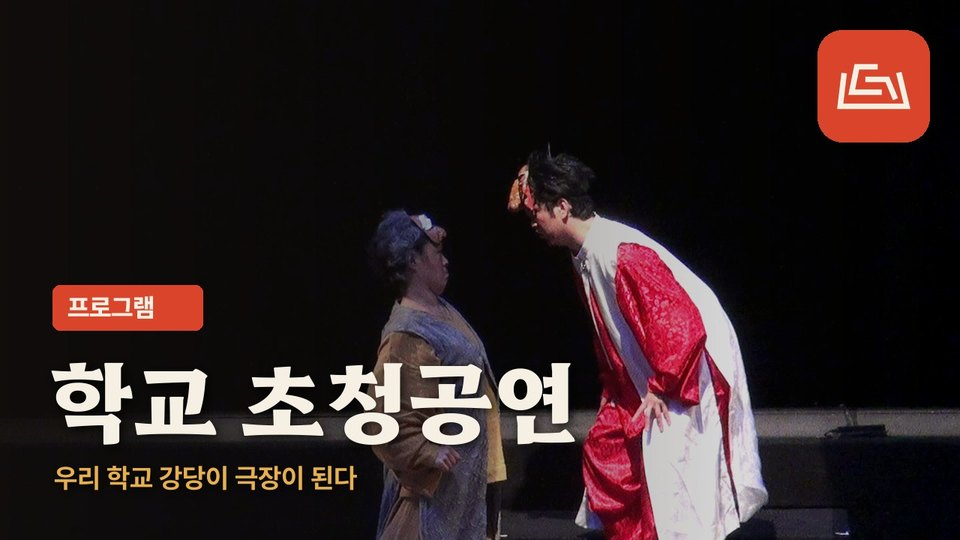
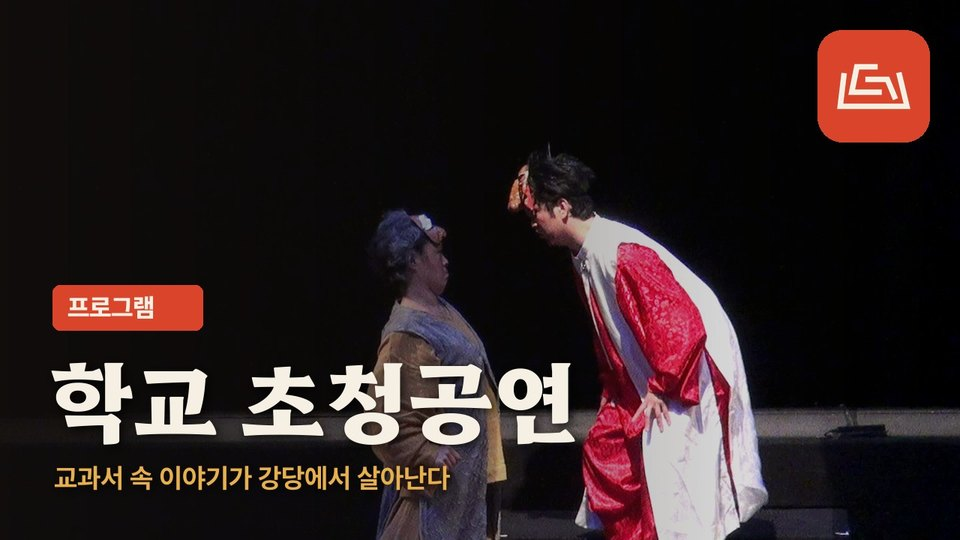
공연 예약 안내를 첫 화면 배너창으로 (QR·짧은 주소 포함, 11월 26일까지), 짧은 주소용 /r/ 이동 페이지

Changed region(s): [[0.0625, 0.8593, 0.4688, 0.9185]]

diff --git a/index.html b/index.html
@@ -4,7 +4,7 @@
 <meta charset="utf-8">
 <meta name="viewport" content="width=device-width, initial-scale=1">
 <title>극단 도깨비 | 부산 극단 · 역사 창작극 · 공연 문의</title>
-<meta name="description" content="역사와 사실을 연극으로 옮겨드립니다. 부산의 극단 도깨비 공식 홈페이지. 역사와 지역 이야기를 담은 창작극, 학교 찾아가는 공연, 축제·기념행사 공연, AI 문화 진로체험과 〈우암동 189번지〉, 〈모자여행〉, 〈상사화〉, 〈꼬까비〉 등 작품을 소개합니다.">
+<meta name="description" content="역사와 사실을 연극으로 옮겨드립니다. 고조선 건국부터 근현대까지, 작은 마을과 우리 동네의 역사까지 무대로 옮기는 부산의 극단 도깨비 공식 홈페이지. 모든 세대를 위한 창작극, 학교 찾아가는 공연, 축제·기념행사 공연, AI 문화 진로체험과 〈우암동 189번지〉, 〈모자여행〉, 〈상사화〉, 〈꼬까비〉 등 작품을 소개합니다.">
 <meta name="keywords" content="극단 도깨비, 극단도깨비, 부산 극단, 부산 연극, 역사극, 역사재현극, 창작극, 마당극, 판소리극, 아동극, 과학연극, 학교 찾아가는 공연, AI 문화 진로체험, 우암동 189번지, 우당탕 과학탐험대, 모자여행, 상사화, 꼬까비, 공연 문의">
 <meta name="robots" content="index, follow">
 <link rel="canonical" href="https://dokkaebi1.github.io/">
@@ -15,7 +15,7 @@
 <meta property="og:site_name" content="극단 도깨비">
 <meta property="og:locale" content="ko_KR">
 <meta property="og:title" content="극단 도깨비 | 부산 극단 · 역사 창작극 · 공연 문의">
-<meta property="og:description" content="역사와 사실을 연극으로 옮겨드립니다. 부산의 극단 도깨비 공식 홈페이지. 역사와 지역 이야기를 담은 창작극, 학교 찾아가는 공연, 축제·기념행사 공연, AI 문화 진로체험과 〈우암동 189번지〉, 〈모자여행〉, 〈상사화〉, 〈꼬까비〉 등 작품을 소개합니다.">
+<meta property="og:description" content="역사와 사실을 연극으로 옮겨드립니다. 고조선 건국부터 근현대까지, 작은 마을과 우리 동네의 역사까지 무대로 옮기는 부산의 극단 도깨비 공식 홈페이지. 모든 세대를 위한 창작극, 학교 찾아가는 공연, 축제·기념행사 공연, AI 문화 진로체험과 〈우암동 189번지〉, 〈모자여행〉, 〈상사화〉, 〈꼬까비〉 등 작품을 소개합니다.">
 <meta property="og:url" content="https://dokkaebi1.github.io/">
 <meta property="og:image" content="https://dokkaebi1.github.io/assets/img/brand/og-image.jpg">
 <meta name="twitter:card" content="summary_large_image">
@@ -28,7 +28,7 @@
 <link rel="stylesheet" href="https://fonts.googleapis.com/css2?family=Hahmlet:wght@400..900&display=swap">
 <link rel="preconnect" href="https://cdn.jsdelivr.net" crossorigin>
 <link rel="stylesheet" href="https://cdn.jsdelivr.net/npm/pretendard@1.3.9/dist/web/variable/pretendardvariable-dynamic-subset.min.css">
-<link rel="stylesheet" href="assets/css/style.css?v=1792687189">
+<link rel="stylesheet" href="assets/css/style.css?v=1792687630">
 <script>document.documentElement.classList.add("js")</script>
 <meta name="dokkaebi-api" content="https://script.google.com/macros/s/AKfycbw1ukn5kiuJ3rC1IUlTakt7768htxE08COYk8GMvpOcfUWcSVZKUTsxLftt-JXtx4I/exec">
 <script type="application/ld+json">{"@context": "https://schema.org", "@type": "TheaterGroup", "name": "극단 도깨비", "alternateName": ["극단도깨비", "Theater Dokkaebi"], "url": "https://dokkaebi1.github.io/", "logo": "https://dokkaebi1.github.io/assets/img/brand/seal-512.png", "image": "https://dokkaebi1.github.io/assets/img/brand/og-image.jpg", "description": "역사와 지역의 이야기를 연극으로 옮기는 부산의 극단. 창작극·판소리극·역사재현극, 학교 찾아가는 공연, 축제·기념행사 공연, AI 문화 진로체험", "address": {"@type": "PostalAddress", "addressRegion": "부산광역시", "addressCountry": "KR"}, "telephone": "+82-10-8584-1753"}</script>
@@ -52,10 +52,9 @@
   </div>
   <div class="wrap hero__inner">
     <svg class="hero__mark" viewBox="0 0 700 430" aria-hidden="true" focusable="false"><g fill="none" stroke-width="40" stroke-linejoin="miter" stroke-linecap="butt"><polyline pathLength="1" points="95,95 60,385 640,385 570,90" stroke="currentColor"/><polyline pathLength="1" points="385,40 205,40 160,262 420,262" stroke="currentColor"/><polyline pathLength="1" points="280,150 470,150 540,322" stroke="var(--red)"/></g></svg>
-    <a class="hero__notice" href="reserve/" data-until="2026-11-26"><span class="hero__notice-tag">공연 예약</span><span class="hero__notice-text">11월 24~26일 오전 10:30 · 〈배탈난 호랑이〉 · 안데르센극장</span><b>좌석 예약하기 →</b></a><script>(function(a){var t=new Date(Date.now()+324e5).toISOString().slice(0,10);if(a&&t>a.dataset.until)a.hidden=true})(document.currentScript.previousElementSibling)</script>
     <span class="eyebrow">부산 · 역사극 · 창작극 · 찾아가는 공연</span>
     <h1>극단 도깨비</h1>
-    <p class="hero__lead"><strong>역사와 사실을 연극으로 옮겨드립니다.</strong><br>지역의 역사와 마을의 기억, 사람 사는 이야기를 무대에 올려 극장·학교·축제 어디든 찾아갑니다.</p>
+    <p class="hero__lead"><strong>역사와 사실을 연극으로 옮겨드립니다.</strong><br>고조선 건국부터 근현대까지, 작은 마을의 역사와 지금 내가 사는 동네 이야기까지 무대로 옮깁니다. 어린이부터 어르신까지, 모든 세대와 함께합니다.</p>
     <div class="hero__actions">
       <a class="btn btn--red" href="#services">프로그램 보기</a>
       <a class="btn btn--line" href="#contact">공연 문의</a>
@@ -71,7 +70,7 @@
     <div class="about">
       <p class="about__quote reveal">역사 속 한 장면, 골목의 기억, 이웃의 웃음.<br>실제 있었던 <em>사람 사는 이야기</em>를<br>무대 위로 불러냅니다.</p>
       <div class="about__body reveal">
-        <p>극단 도깨비는 부산을 기반으로 활동하는 극단입니다. 피란민 마을 소막마을의 기억을 담은 〈우암동 189번지〉처럼, 지역의 역사와 마을 이야기를 바탕으로 창작극을 만들어 왔습니다.</p>
+        <p>극단 도깨비는 부산을 기반으로 어린이부터 어르신까지 모든 세대와 만나는 극단입니다. 고조선 건국부터 근현대까지의 역사, 피란민 마을 소막마을의 기억을 담은 〈우암동 189번지〉처럼 작은 마을과 동네의 이야기까지 무대로 옮겨 왔습니다.</p>
         <p>판소리와 낭독극으로 고전과 문학을 새롭게 풀고, 동래읍성역사축제·3·1절 재현 행사·갯마을 마당극 축제 같은 축제와 기념행사의 공연, 그리고 여러 길거리 퍼레이드를 기획하고 연출해 왔습니다. 극장이든 학교든 시장이든, 이야기가 필요한 곳이라면 장소를 가리지 않고 찾아갑니다.</p>
       </div>
       <div class="pillars">
@@ -90,7 +89,7 @@
     <div class="section-head reveal"><span class="eyebrow">02 · 프로그램</span><h2>이런 무대를 만듭니다</h2><p>필요한 공연과 대상에 맞춰 고르세요. 누르면 자세한 안내로 이어집니다.</p></div>
     <div class="offers"><a class="offer reveal" href="programs/history.html">
   <div class="offer__img"><img src="assets/img/gallery/outdoor-01.jpg" alt="성곽 위 야외 역사재현극 장면" loading="lazy"></div>
-  <span class="eyebrow">창작 의뢰</span><h3>역사 · 이야기 창작 공연</h3><p>지역의 역사와 인물, 마을의 기억을 바탕으로 기념행사와 축제에 맞는 공연을 만듭니다.</p><span class="offer__more">자세히 보기 →</span>
+  <span class="eyebrow">창작 의뢰</span><h3>역사 · 이야기 창작 공연</h3><p>고조선 건국부터 근현대까지, 지역의 인물과 작은 마을, 우리 동네의 역사까지 행사와 축제에 맞는 공연으로 만듭니다.</p><span class="offer__more">자세히 보기 →</span>
 </a><a class="offer reveal offer--edu" href="programs/school.html">
   <div class="offer__img"><img src="assets/img/gallery/community-03.jpg" alt="어린이 발표 공연 단체 사진" loading="lazy"></div>
   <span class="eyebrow">학교 초청</span><h3>학교 찾아가는 공연</h3><p>한글·수학·과학 이야기를 담은 공연으로 교실과 강당을 찾아갑니다.</p><span class="offer__more">자세히 보기 →</span>
@@ -202,7 +201,7 @@
     <h3 class="videos-title reveal">프로그램 홍보영상</h3>
     <div class="videos"><button class="vcard reveal" data-video="assets/video/school.mp4" data-poster="assets/video/school.jpg" data-title="학교 초청공연">
   <div class="vcard__img"><img src="assets/video/school.jpg" alt="학교 초청공연 영상 장면" loading="lazy" width="1280" height="720"><span class="play"><svg viewBox="0 0 24 24" aria-hidden="true"><path d="M7 4.5v15l13-7.5z"/></svg></span></div>
-  <b>학교 초청공연</b><span>교실 · 강당 · 체육관으로 찾아가는 공연</span></button><button class="vcard reveal" data-video="assets/video/ai-career.mp4" data-poster="assets/video/ai-career.jpg" data-title="AI 문화 진로체험">
+  <b>학교 초청공연</b><span>교과서 속 이야기를 교실 · 강당으로</span></button><button class="vcard reveal" data-video="assets/video/ai-career.mp4" data-poster="assets/video/ai-career.jpg" data-title="AI 문화 진로체험">
   <div class="vcard__img"><img src="assets/video/ai-career.jpg" alt="AI 문화 진로체험 영상 장면" loading="lazy" width="1280" height="720"><span class="play"><svg viewBox="0 0 24 24" aria-hidden="true"><path d="M7 4.5v15l13-7.5z"/></svg></span></div>
   <b>AI 문화 진로체험</b><span>AI와 함께 대본을 쓰고 무대에 올리기</span></button><button class="vcard reveal" data-video="assets/video/venue.mp4" data-poster="assets/video/venue.jpg" data-title="문화회관 · 공연장 초청공연">
   <div class="vcard__img"><img src="assets/video/venue.jpg" alt="문화회관 · 공연장 초청공연 영상 장면" loading="lazy" width="1280" height="720"><span class="play"><svg viewBox="0 0 24 24" aria-hidden="true"><path d="M7 4.5v15l13-7.5z"/></svg></span></div>
@@ -261,6 +260,33 @@
   </div>
 </section>
 </main>
+<div class="promo" id="promo" data-until="2026-11-26" hidden>
+  <div class="promo__card" role="dialog" aria-modal="true" aria-labelledby="promo-title" tabindex="-1">
+    <button class="promo__x" type="button" data-promo-close aria-label="배너 닫기">×</button>
+    <span class="promo__tag">공연 예약</span>
+    <p class="promo__series">기장군 아동무대공연</p>
+    <h2 id="promo-title">배탈난 호랑이</h2>
+    <dl class="promo__facts"><div><dt>날짜</dt><dd>11월 24일(화) · 25일(수) · 26일(목)</dd></div><div><dt>시간</dt><dd>오전 10시 30분</dd></div><div><dt>장소</dt><dd>안데르센극장 (기장군 장안읍 장안로 211)</dd></div></dl>
+    <div class="promo__go">
+      <img class="promo__qr" src="assets/img/reserve-qr.svg" alt="좌석 예약 페이지 QR 코드" width="132" height="132">
+      <div><a class="btn btn--red" href="reserve/">좌석 예약하기 →</a><p class="promo__hint">컴퓨터로 보고 계시면 휴대폰 카메라로 QR 코드를 찍어도 됩니다.</p><p class="promo__short">짧은 주소 <b>is.gd/dokkaebi</b></p></div>
+    </div>
+    <div class="promo__foot"><button type="button" data-promo-today>오늘 하루 보지 않기</button><button type="button" data-promo-close>닫기</button></div>
+  </div>
+</div>
+<script>(function () {
+  var p = document.getElementById("promo"); if (!p) return;
+  var today = new Date(Date.now() + 324e5).toISOString().slice(0, 10), KEY = "dk-promo-hide", last = null;
+  try { if (localStorage.getItem(KEY) === today) return; } catch (e) {}
+  if (today > p.dataset.until) return;
+  function close(day) { p.hidden = true; document.removeEventListener("keydown", esc); if (day) try { localStorage.setItem(KEY, today); } catch (e) {} if (last) last.focus(); }
+  function esc(e) { if (e.key === "Escape") close(); }
+  setTimeout(function () { last = document.activeElement; p.hidden = false; p.querySelector(".promo__card").focus(); document.addEventListener("keydown", esc); }, 600);
+  p.addEventListener("click", function (e) {
+    if (e.target === p || e.target.closest("[data-promo-close]")) close();
+    else if (e.target.closest("[data-promo-today]")) close(true);
+  });
+})();</script>
 <footer class="site-footer">
   <div class="wrap">
     <div class="footer-brand"><a class="brand" href="index.html" aria-label="극단 도깨비 홈"><svg class="brand__mark" viewBox="0 0 700 430" aria-hidden="true" focusable="false"><g fill="none" stroke-width="46" stroke-linejoin="miter" stroke-linecap="butt"><polyline points="95,95 60,385 640,385 570,90" stroke="currentColor"/><polyline points="385,40 205,40 160,262 420,262" stroke="currentColor"/><polyline points="280,150 470,150 540,322" stroke="var(--red)"/></g></svg><span class="brand__name"><small>극단</small>도깨비</span></a><p class="footer-brand__slogan">역사와 사실을 연극으로 옮겨드립니다</p></div>
@@ -285,7 +311,7 @@
 <a class="fab" href="#inquiry" data-open="inquiry-dialog">문의하기</a>
 <dialog id="video-dialog" aria-label="영상 보기"><button class="dlg-close" aria-label="닫기">×</button><video controls playsinline preload="none"></video><p></p></dialog>
 <dialog id="lightbox" aria-label="사진 크게 보기"><button class="dlg-close" aria-label="닫기">×</button><button class="lb-nav lb-prev" aria-label="이전 사진">‹</button><figure><img alt=""><figcaption></figcaption></figure><button class="lb-nav lb-next" aria-label="다음 사진">›</button></dialog>
-<script src="assets/js/main.js?v=1792687189" defer></script>
-<script src="assets/js/forms.js?v=1792687189" defer></script>
+<script src="assets/js/main.js?v=1792687630" defer></script>
+<script src="assets/js/forms.js?v=1792687630" defer></script>
 </body>
 </html>

diff --git a/programs/history.html b/programs/history.html
@@ -4,7 +4,7 @@
 <meta charset="utf-8">
 <meta name="viewport" content="width=device-width, initial-scale=1">
 <title>역사 · 이야기 창작 공연 | 극단 도깨비</title>
-<meta name="description" content="극단 도깨비 역사 · 이야기 창작 공연. 지역의 역사, 인물, 마을의 기억을 무대 위 이야기로 옮겨드립니다. 지역의 역사와 인물, 마을의 기억을 바탕으로 기념행사와 축제에 맞는 공연을 만듭니다.">
+<meta name="description" content="극단 도깨비 역사 · 이야기 창작 공연. 고조선부터 우리 동네까지 — 모든 역사를 무대 위 이야기로 옮겨드립니다. 고조선 건국부터 근현대까지, 지역의 인물과 작은 마을, 우리 동네의 역사까지 행사와 축제에 맞는 공연으로 만듭니다.">
 <meta name="keywords" content="극단 도깨비, 극단도깨비, 부산 극단, 부산 연극, 역사극, 역사재현극, 창작극, 마당극, 판소리극, 아동극, 과학연극, 학교 찾아가는 공연, AI 문화 진로체험, 우암동 189번지, 우당탕 과학탐험대, 모자여행, 상사화, 꼬까비, 공연 문의">
 <meta name="robots" content="index, follow">
 <link rel="canonical" href="https://dokkaebi1.github.io/programs/history.html">
@@ -15,7 +15,7 @@
 <meta property="og:site_name" content="극단 도깨비">
 <meta property="og:locale" content="ko_KR">
 <meta property="og:title" content="역사 · 이야기 창작 공연 | 극단 도깨비">
-<meta property="og:description" content="극단 도깨비 역사 · 이야기 창작 공연. 지역의 역사, 인물, 마을의 기억을 무대 위 이야기로 옮겨드립니다. 지역의 역사와 인물, 마을의 기억을 바탕으로 기념행사와 축제에 맞는 공연을 만듭니다.">
+<meta property="og:description" content="극단 도깨비 역사 · 이야기 창작 공연. 고조선부터 우리 동네까지 — 모든 역사를 무대 위 이야기로 옮겨드립니다. 고조선 건국부터 근현대까지, 지역의 인물과 작은 마을, 우리 동네의 역사까지 행사와 축제에 맞는 공연으로 만듭니다.">
 <meta property="og:url" content="https://dokkaebi1.github.io/programs/history.html">
 <meta property="og:image" content="https://dokkaebi1.github.io/assets/img/gallery/outdoor-02.jpg">
 <meta name="twitter:card" content="summary_large_image">
@@ -28,7 +28,7 @@
 <link rel="stylesheet" href="https://fonts.googleapis.com/css2?family=Hahmlet:wght@400..900&display=swap">
 <link rel="preconnect" href="https://cdn.jsdelivr.net" crossorigin>
 <link rel="stylesheet" href="https://cdn.jsdelivr.net/npm/pretendard@1.3.9/dist/web/variable/pretendardvariable-dynamic-subset.min.css">
-<link rel="stylesheet" href="../assets/css/style.css?v=1792687189">
+<link rel="stylesheet" href="../assets/css/style.css?v=1792687630">
 <script>document.documentElement.classList.add("js")</script>
 <meta name="dokkaebi-api" content="https://script.google.com/macros/s/AKfycbw1ukn5kiuJ3rC1IUlTakt7768htxE08COYk8GMvpOcfUWcSVZKUTsxLftt-JXtx4I/exec">
 <script type="application/ld+json">{"@context": "https://schema.org", "@type": "BreadcrumbList", "itemListElement": [{"@type": "ListItem", "position": 1, "name": "홈", "item": "https://dokkaebi1.github.io/"}, {"@type": "ListItem", "position": 2, "name": "프로그램", "item": "https://dokkaebi1.github.io/#services"}, {"@type": "ListItem", "position": 3, "name": "역사 · 이야기 창작 공연", "item": "https://dokkaebi1.github.io/programs/history.html"}]}</script>
@@ -51,13 +51,13 @@
       <div class="crumbs"><a href="../index.html">홈</a> › <a href="../index.html#services">프로그램</a> › 역사 · 이야기 창작 공연</div>
       <span class="eyebrow">창작 의뢰</span>
       <h1>역사와 사실을 연극으로</h1>
-      <p class="show-hero__tagline">지역의 역사, 인물, 마을의 기억을 무대 위 이야기로 옮겨드립니다.</p>
+      <p class="show-hero__tagline">고조선부터 우리 동네까지 — 모든 역사를 무대 위 이야기로 옮겨드립니다.</p>
     </div>
   </div>
 </section>
 <section class="section grain"><div class="wrap">
   <div class="section-head reveal"><span class="eyebrow">이런 이야기를 연극으로</span><h2>역사와 삶을 무대로</h2><p>극단 도깨비가 만들어 온 이야기의 결입니다.</p></div>
-  <div class="info-grid"><div class="info reveal"><h3>지역의 역사와 인물</h3><p>동래읍성역사축제, 3·1절 만세운동 재현 행사처럼 기념일과 축제에 맞춰 그 땅의 역사를 무대 위에 되살리는 공연을 기획하고 연출합니다.</p></div><div class="info reveal"><h3>마을과 골목의 기억</h3><p>〈우암동 189번지〉는 피란민이 터를 잡은 소막마을의 이야기를 창작극으로 옮긴 작품입니다.</p></div><div class="info reveal"><h3>문학과 고전</h3><p>〈오영수의 변신〉은 소설가 오영수의 단편을 판소리·낭독극·단막극으로 풀어낸 무대입니다.</p></div><div class="info reveal"><h3>교과서 속 이야기</h3><p>〈우당탕 과학탐험대〉, 신나는 한글여행 같은 교과 이야기 공연과 AI 문화 진로체험으로 학교에서도 이야기를 나눕니다.</p></div></div>
+  <div class="info-grid"><div class="info reveal"><h3>시대를 가리지 않는 역사</h3><p>고조선 건국부터 삼국·고려·조선을 지나 근현대까지 — 담고 싶은 시대와 사건을 알려 주시면 관객과 장소에 맞는 공연으로 만듭니다.</p></div><div class="info reveal"><h3>지역의 역사와 인물</h3><p>동래읍성역사축제, 3·1절 만세운동 재현 행사처럼 기념일과 축제에 맞춰 그 땅의 역사를 무대 위에 되살리는 공연을 기획하고 연출합니다.</p></div><div class="info reveal"><h3>마을과 골목, 우리 동네의 기억</h3><p>〈우암동 189번지〉는 피란민이 터를 잡은 소막마을의 이야기를 창작극으로 옮긴 작품입니다. 지금 내가 사는 동네의 이야기도 무대가 됩니다.</p></div><div class="info reveal"><h3>문학과 고전</h3><p>〈오영수의 변신〉은 소설가 오영수의 단편을 판소리·낭독극·단막극으로 풀어낸 무대입니다.</p></div><div class="info reveal"><h3>교과서 속 이야기</h3><p>〈우당탕 과학탐험대〉, 신나는 한글여행 같은 교과 이야기 공연과 AI 문화 진로체험으로 학교에서도 이야기를 나눕니다.</p></div></div>
 </div></section><section class="section section--paper-2"><div class="wrap">
   <div class="section-head reveal"><span class="eyebrow">공연 형식</span><h2>장소에 맞춰 만듭니다</h2></div>
   <ul class="chips reveal" style="margin:0"><li>극장 공연</li><li>야외 역사재현극</li><li>마당극 · 거리 공연</li><li>길거리 퍼레이드</li><li>기념식 · 행사 공연</li><li>학교 공연</li></ul><div class="photo-row reveal"><img src="../assets/img/gallery/outdoor-02.jpg" alt="연기 속 역사재현극 전투 장면" loading="lazy"><img src="../assets/img/gallery/uam-02.jpg" alt="우암동 189번지 – 소막마을 사람들의 군무" loading="lazy"><img src="../assets/img/gallery/outdoor-04.jpg" alt="갑옷 입은 병사들" loading="lazy"></div>
@@ -106,7 +106,7 @@
 <a class="fab" href="#inquiry" data-open="inquiry-dialog">문의하기</a>
 <dialog id="video-dialog" aria-label="영상 보기"><button class="dlg-close" aria-label="닫기">×</button><video controls playsinline preload="none"></video><p></p></dialog>
 <dialog id="lightbox" aria-label="사진 크게 보기"><button class="dlg-close" aria-label="닫기">×</button><button class="lb-nav lb-prev" aria-label="이전 사진">‹</button><figure><img alt=""><figcaption></figcaption></figure><button class="lb-nav lb-next" aria-label="다음 사진">›</button></dialog>
-<script src="../assets/js/main.js?v=1792687189" defer></script>
-<script src="../assets/js/forms.js?v=1792687189" defer></script>
+<script src="../assets/js/main.js?v=1792687630" defer></script>
+<script src="../assets/js/forms.js?v=1792687630" defer></script>
 </body>
 </html>

diff --git a/assets/css/style.css b/assets/css/style.css
@@ -478,12 +478,30 @@ dialog.form-dialog .dlg-close { position: sticky; float: right; top: 8px; margin
 .hero__lead, .show-hero__tagline { font-weight: 500; }
 .footer-brand__slogan { font-weight: 600; }
 
-/* 공연 좌석 예약 안내 (첫 화면 · 메뉴) — site_config.json 의 reserve_notice */
-.hero__notice { display: flex; width: fit-content; flex-wrap: wrap; align-items: center; gap: 8px 14px; max-width: 100%; margin: 0 0 22px; padding: 10px 12px 10px 10px; border-radius: 16px; background: rgba(21, 17, 15, .72); border: 1px solid rgba(232, 176, 74, .55); color: var(--on-ink); text-decoration: none; backdrop-filter: blur(6px); -webkit-backdrop-filter: blur(6px); transition: border-color .2s, transform .2s var(--ease); }
-.hero__notice:hover { border-color: var(--gold); transform: translateY(-2px); }
-.hero__notice[hidden] { display: none; }
-.hero__notice-tag { background: var(--gold); color: var(--ink); font-weight: 800; font-size: 13px; letter-spacing: .06em; padding: 4px 10px; border-radius: 8px; }
-.hero__notice-text { font-weight: 700; font-size: 15.5px; }
-.hero__notice b { color: var(--gold); font-size: 15.5px; white-space: nowrap; }
+/* 공연 좌석 예약 배너창 (첫 화면) · 메뉴 '좌석 예약' — site_config.json 의 reserve_notice. 공연이 끝나면 함께 빠집니다 */
+.promo { position: fixed; inset: 0; z-index: 200; display: grid; place-items: center; padding: 16px; background: rgba(21, 17, 15, .62); animation: promo-in .3s var(--ease); }
+.promo[hidden] { display: none; }
+.promo__card { position: relative; width: min(460px, 100%); max-height: calc(100dvh - 32px); overflow: auto; background: var(--ink); color: var(--on-ink); border: 1px solid rgba(232, 176, 74, .45); border-top: 5px solid var(--red); border-radius: 18px; padding: 28px 26px 0; box-shadow: 0 30px 80px -20px rgba(0, 0, 0, .7); outline: none; }
+.promo__x { position: absolute; top: 10px; right: 12px; width: 40px; height: 40px; border: 0; background: none; color: var(--on-ink); font-size: 28px; line-height: 1; cursor: pointer; }
+.promo__tag { display: inline-block; background: var(--gold); color: var(--ink); font-weight: 800; font-size: 13px; letter-spacing: .08em; padding: 4px 11px; border-radius: 8px; }
+.promo__series { margin: 14px 0 2px; color: var(--gold); font-weight: 700; font-size: 15px; }
+.promo h2 { margin: 0 0 14px; font-family: var(--display); font-weight: 900; font-size: clamp(34px, 8vw, 44px); line-height: 1.1; letter-spacing: -.02em; color: #fff; }
+.promo__facts { margin: 0; display: grid; gap: 6px; font-size: 15.5px; }
+.promo__facts div { display: grid; grid-template-columns: 3em 1fr; gap: 10px; }
+.promo__facts dt { color: var(--on-ink-soft); font-weight: 700; }
+.promo__facts dd { margin: 0; font-weight: 700; }
+.promo__go { display: grid; grid-template-columns: auto 1fr; gap: 16px; align-items: center; margin: 20px 0 18px; padding-top: 18px; border-top: 1px solid rgba(255, 255, 255, .12); }
+.promo__qr { width: 132px; height: 132px; background: #fff; border-radius: 10px; padding: 6px; }
+.promo__go .btn { width: 100%; justify-content: center; }
+.promo__hint { margin: 8px 0 0; font-size: 13px; line-height: 1.5; color: var(--on-ink-soft); }
+.promo__short { margin: 6px 0 0; font-size: 13.5px; color: var(--on-ink-soft); }
+.promo__short b { color: var(--gold); font-size: 15px; letter-spacing: .02em; }
+.promo__foot { display: flex; justify-content: space-between; margin: 0 -26px; border-top: 1px solid rgba(255, 255, 255, .12); }
+.promo__foot button { flex: 1; border: 0; background: none; color: var(--on-ink-soft); font: inherit; font-size: 14.5px; padding: 14px; cursor: pointer; }
+.promo__foot button + button { border-left: 1px solid rgba(255, 255, 255, .12); color: var(--on-ink); font-weight: 700; }
+.promo__foot button:hover { background: rgba(255, 255, 255, .06); }
+@keyframes promo-in { from { opacity: 0; } to { opacity: 1; } }
+@media (hover: none) and (pointer: coarse) { .promo__qr, .promo__hint { display: none; } .promo__go { grid-template-columns: 1fr; } }
+@media (prefers-reduced-motion: reduce) { .promo { animation: none; } }
 .nav a.nav__reserve { opacity: 1; color: var(--gold); border-color: var(--gold); }
 @media (max-width: 820px) { .nav a.nav__reserve { border-color: rgba(255, 255, 255, .08); } }

diff --git a/reserve/index.html b/reserve/index.html
@@ -23,7 +23,7 @@
 <link rel="stylesheet" href="https://fonts.googleapis.com/css2?family=Hahmlet:wght@600..900&display=swap">
 <link rel="preconnect" href="https://cdn.jsdelivr.net" crossorigin>
 <link rel="stylesheet" href="https://cdn.jsdelivr.net/npm/pretendard@1.3.9/dist/web/variable/pretendardvariable-dynamic-subset.min.css">
-<link rel="stylesheet" href="../assets/css/reserve.css?v=1792686306">
+<link rel="stylesheet" href="../assets/css/reserve.css?v=1792687523">
 <meta name="dokkaebi-api" content="https://script.google.com/macros/s/AKfycbw1ukn5kiuJ3rC1IUlTakt7768htxE08COYk8GMvpOcfUWcSVZKUTsxLftt-JXtx4I/exec">
 <script type="application/ld+json">{"@context":"https://schema.org","@type":"TheaterEvent","name":"배탈난 호랑이 (기장군 아동무대공연)","description":"자랑쟁이 호랑이가 거짓말하고 쓰레기를 함부로 버리는 버릇을 고치는 이야기","organizer":{"@type":"PerformingGroup","name":"극단 도깨비","telephone":"010-8584-1753","url":"https://dokkaebi1.github.io/"},"location":{"@type":"PerformingArtsTheater","name":"안데르센극장","address":{"@type":"PostalAddress","streetAddress":"장안읍 장안로 211","addressLocality":"기장군","addressRegion":"부산광역시","addressCountry":"KR"}},"startDate":"2026-11-24T10:30:00+09:00","endDate":"2026-11-26T11:30:00+09:00","eventAttendanceMode":"https://schema.org/OfflineEventAttendanceMode","eventStatus":"https://schema.org/EventScheduled","url":"https://dokkaebi1.github.io/reserve/"}</script>
 </head>
@@ -142,8 +142,8 @@
   <b>극단 도깨비</b> · 부산광역시 · 공연 문의 <a href="tel:01085841753">010-8584-1753</a><br>
   <a href="../privacy.html">개인정보 처리방침</a> · <a href="../index.html">홈페이지</a> · © 2026 극단 도깨비
 </div></footer>
-<script src="../assets/js/reserve-core.js?v=1792686306"></script>
-<script src="../assets/js/reserve-ui.js?v=1792686306"></script>
-<script src="../assets/js/reserve.js?v=1792686306"></script>
+<script src="../assets/js/reserve-core.js?v=1792687523"></script>
+<script src="../assets/js/reserve-ui.js?v=1792687523"></script>
+<script src="../assets/js/reserve.js?v=1792687523"></script>
 </body>
 </html>

diff --git a/programs/school.html b/programs/school.html
@@ -28,7 +28,7 @@
 <link rel="stylesheet" href="https://fonts.googleapis.com/css2?family=Hahmlet:wght@400..900&display=swap">
 <link rel="preconnect" href="https://cdn.jsdelivr.net" crossorigin>
 <link rel="stylesheet" href="https://cdn.jsdelivr.net/npm/pretendard@1.3.9/dist/web/variable/pretendardvariable-dynamic-subset.min.css">
-<link rel="stylesheet" href="../assets/css/style.css?v=1792687189">
+<link rel="stylesheet" href="../assets/css/style.css?v=1792687630">
 <script>document.documentElement.classList.add("js")</script>
 <meta name="dokkaebi-api" content="https://script.google.com/macros/s/AKfycbw1ukn5kiuJ3rC1IUlTakt7768htxE08COYk8GMvpOcfUWcSVZKUTsxLftt-JXtx4I/exec">
 <script type="application/ld+json">{"@context": "https://schema.org", "@type": "BreadcrumbList", "itemListElement": [{"@type": "ListItem", "position": 1, "name": "홈", "item": "https://dokkaebi1.github.io/"}, {"@type": "ListItem", "position": 2, "name": "프로그램", "item": "https://dokkaebi1.github.io/#services"}, {"@type": "ListItem", "position": 3, "name": "학교 찾아가는 공연", "item": "https://dokkaebi1.github.io/programs/school.html"}]}</script>
@@ -126,7 +126,7 @@
 <a class="fab" href="#inquiry" data-open="inquiry-dialog">문의하기</a>
 <dialog id="video-dialog" aria-label="영상 보기"><button class="dlg-close" aria-label="닫기">×</button><video controls playsinline preload="none"></video><p></p></dialog>
 <dialog id="lightbox" aria-label="사진 크게 보기"><button class="dlg-close" aria-label="닫기">×</button><button class="lb-nav lb-prev" aria-label="이전 사진">‹</button><figure><img alt=""><figcaption></figcaption></figure><button class="lb-nav lb-next" aria-label="다음 사진">›</button></dialog>
-<script src="../assets/js/main.js?v=1792687189" defer></script>
-<script src="../assets/js/forms.js?v=1792687189" defer></script>
+<script src="../assets/js/main.js?v=1792687630" defer></script>
+<script src="../assets/js/forms.js?v=1792687630" defer></script>
 </body>
 </html>

diff --git a/programs/ai-career.html b/programs/ai-career.html
@@ -28,7 +28,7 @@
 <link rel="stylesheet" href="https://fonts.googleapis.com/css2?family=Hahmlet:wght@400..900&display=swap">
 <link rel="preconnect" href="https://cdn.jsdelivr.net" crossorigin>
 <link rel="stylesheet" href="https://cdn.jsdelivr.net/npm/pretendard@1.3.9/dist/web/variable/pretendardvariable-dynamic-subset.min.css">
-<link rel="stylesheet" href="../assets/css/style.css?v=1792687189">
+<link rel="stylesheet" href="../assets/css/style.css?v=1792687630">
 <script>document.documentElement.classList.add("js")</script>
 <meta name="dokkaebi-api" content="https://script.google.com/macros/s/AKfycbw1ukn5kiuJ3rC1IUlTakt7768htxE08COYk8GMvpOcfUWcSVZKUTsxLftt-JXtx4I/exec">
 <script type="application/ld+json">{"@context": "https://schema.org", "@type": "BreadcrumbList", "itemListElement": [{"@type": "ListItem", "position": 1, "name": "홈", "item": "https://dokkaebi1.github.io/"}, {"@type": "ListItem", "position": 2, "name": "프로그램", "item": "https://dokkaebi1.github.io/#services"}, {"@type": "ListItem", "position": 3, "name": "AI 문화 진로체험", "item": "https://dokkaebi1.github.io/programs/ai-career.html"}]}</script>
@@ -103,7 +103,7 @@
 <a class="fab" href="#inquiry" data-open="inquiry-dialog">문의하기</a>
 <dialog id="video-dialog" aria-label="영상 보기"><button class="dlg-close" aria-label="닫기">×</button><video controls playsinline preload="none"></video><p></p></dialog>
 <dialog id="lightbox" aria-label="사진 크게 보기"><button class="dlg-close" aria-label="닫기">×</button><button class="lb-nav lb-prev" aria-label="이전 사진">‹</button><figure><img alt=""><figcaption></figcaption></figure><button class="lb-nav lb-next" aria-label="다음 사진">›</button></dialog>
-<script src="../assets/js/main.js?v=1792687189" defer></script>
-<script src="../assets/js/forms.js?v=1792687189" defer></script>
+<script src="../assets/js/main.js?v=1792687630" defer></script>
+<script src="../assets/js/forms.js?v=1792687630" defer></script>
 </body>
 </html>

diff --git a/works/science-expedition.html b/works/science-expedition.html
@@ -28,7 +28,7 @@
 <link rel="stylesheet" href="https://fonts.googleapis.com/css2?family=Hahmlet:wght@400..900&display=swap">
 <link rel="preconnect" href="https://cdn.jsdelivr.net" crossorigin>
 <link rel="stylesheet" href="https://cdn.jsdelivr.net/npm/pretendard@1.3.9/dist/web/variable/pretendardvariable-dynamic-subset.min.css">
-<link rel="stylesheet" href="../assets/css/style.css?v=1792687189">
+<link rel="stylesheet" href="../assets/css/style.css?v=1792687630">
 <script>document.documentElement.classList.add("js")</script>
 <meta name="dokkaebi-api" content="https://script.google.com/macros/s/AKfycbw1ukn5kiuJ3rC1IUlTakt7768htxE08COYk8GMvpOcfUWcSVZKUTsxLftt-JXtx4I/exec">
 <script type="application/ld+json">{"@context": "https://schema.org", "@type": "BreadcrumbList", "itemListElement": [{"@type": "ListItem", "position": 1, "name": "홈", "item": "https://dokkaebi1.github.io/"}, {"@type": "ListItem", "position": 2, "name": "작품", "item": "https://dokkaebi1.github.io/#works"}, {"@type": "ListItem", "position": 3, "name": "우당탕 과학탐험대", "item": "https://dokkaebi1.github.io/works/science-expedition.html"}]}</script>
@@ -129,7 +129,7 @@
 <a class="fab" href="#inquiry" data-open="inquiry-dialog">문의하기</a>
 <dialog id="video-dialog" aria-label="영상 보기"><button class="dlg-close" aria-label="닫기">×</button><video controls playsinline preload="none"></video><p></p></dialog>
 <dialog id="lightbox" aria-label="사진 크게 보기"><button class="dlg-close" aria-label="닫기">×</button><button class="lb-nav lb-prev" aria-label="이전 사진">‹</button><figure><img alt=""><figcaption></figcaption></figure><button class="lb-nav lb-next" aria-label="다음 사진">›</button></dialog>
-<script src="../assets/js/main.js?v=1792687189" defer></script>
-<script src="../assets/js/forms.js?v=1792687189" defer></script>
+<script src="../assets/js/main.js?v=1792687630" defer></script>
+<script src="../assets/js/forms.js?v=1792687630" defer></script>
 </body>
 </html>

diff --git a/programs/venue.html b/programs/venue.html
@@ -28,7 +28,7 @@
 <link rel="stylesheet" href="https://fonts.googleapis.com/css2?family=Hahmlet:wght@400..900&display=swap">
 <link rel="preconnect" href="https://cdn.jsdelivr.net" crossorigin>
 <link rel="stylesheet" href="https://cdn.jsdelivr.net/npm/pretendard@1.3.9/dist/web/variable/pretendardvariable-dynamic-subset.min.css">
-<link rel="stylesheet" href="../assets/css/style.css?v=1792687189">
+<link rel="stylesheet" href="../assets/css/style.css?v=1792687630">
 <script>document.documentElement.classList.add("js")</script>
 <meta name="dokkaebi-api" content="https://script.google.com/macros/s/AKfycbw1ukn5kiuJ3rC1IUlTakt7768htxE08COYk8GMvpOcfUWcSVZKUTsxLftt-JXtx4I/exec">
 <script type="application/ld+json">{"@context": "https://schema.org", "@type": "BreadcrumbList", "itemListElement": [{"@type": "ListItem", "position": 1, "name": "홈", "item": "https://dokkaebi1.github.io/"}, {"@type": "ListItem", "position": 2, "name": "프로그램", "item": "https://dokkaebi1.github.io/#services"}, {"@type": "ListItem", "position": 3, "name": "공연장 초청 공연", "item": "https://dokkaebi1.github.io/programs/venue.html"}]}</script>
@@ -134,7 +134,7 @@
 <a class="fab" href="#inquiry" data-open="inquiry-dialog">문의하기</a>
 <dialog id="video-dialog" aria-label="영상 보기"><button class="dlg-close" aria-label="닫기">×</button><video controls playsinline preload="none"></video><p></p></dialog>
 <dialog id="lightbox" aria-label="사진 크게 보기"><button class="dlg-close" aria-label="닫기">×</button><button class="lb-nav lb-prev" aria-label="이전 사진">‹</button><figure><img alt=""><figcaption></figcaption></figure><button class="lb-nav lb-next" aria-label="다음 사진">›</button></dialog>
-<script src="../assets/js/main.js?v=1792687189" defer></script>
-<script src="../assets/js/forms.js?v=1792687189" defer></script>
+<script src="../assets/js/main.js?v=1792687630" defer></script>
+<script src="../assets/js/forms.js?v=1792687630" defer></script>
 </body>
 </html>

diff --git a/works/oyeongsu-byeonsin.html b/works/oyeongsu-byeonsin.html
@@ -28,7 +28,7 @@
 <link rel="stylesheet" href="https://fonts.googleapis.com/css2?family=Hahmlet:wght@400..900&display=swap">
 <link rel="preconnect" href="https://cdn.jsdelivr.net" crossorigin>
 <link rel="stylesheet" href="https://cdn.jsdelivr.net/npm/pretendard@1.3.9/dist/web/variable/pretendardvariable-dynamic-subset.min.css">
-<link rel="stylesheet" href="../assets/css/style.css?v=1792687189">
+<link rel="stylesheet" href="../assets/css/style.css?v=1792687630">
 <script>document.documentElement.classList.add("js")</script>
 <meta name="dokkaebi-api" content="https://script.google.com/macros/s/AKfycbw1ukn5kiuJ3rC1IUlTakt7768htxE08COYk8GMvpOcfUWcSVZKUTsxLftt-JXtx4I/exec">
 <script type="application/ld+json">{"@context": "https://schema.org", "@type": "BreadcrumbList", "itemListElement": [{"@type": "ListItem", "position": 1, "name": "홈", "item": "https://dokkaebi1.github.io/"}, {"@type": "ListItem", "position": 2, "name": "작품", "item": "https://dokkaebi1.github.io/#works"}, {"@type": "ListItem", "position": 3, "name": "오영수의 변신", "item": "https://dokkaebi1.github.io/works/oyeongsu-byeonsin.html"}]}</script>
@@ -129,7 +129,7 @@
 <a class="fab" href="#inquiry" data-open="inquiry-dialog">문의하기</a>
 <dialog id="video-dialog" aria-label="영상 보기"><button class="dlg-close" aria-label="닫기">×</button><video controls playsinline preload="none"></video><p></p></dialog>
 <dialog id="lightbox" aria-label="사진 크게 보기"><button class="dlg-close" aria-label="닫기">×</button><button class="lb-nav lb-prev" aria-label="이전 사진">‹</button><figure><img alt=""><figcaption></figcaption></figure><button class="lb-nav lb-next" aria-label="다음 사진">›</button></dialog>
-<script src="../assets/js/main.js?v=1792687189" defer></script>
-<script src="../assets/js/forms.js?v=1792687189" defer></script>
+<script src="../assets/js/main.js?v=1792687630" defer></script>
+<script src="../assets/js/forms.js?v=1792687630" defer></script>
 </body>
 </html>

diff --git a/programs/collab.html b/programs/collab.html
@@ -28,7 +28,7 @@
 <link rel="stylesheet" href="https://fonts.googleapis.com/css2?family=Hahmlet:wght@400..900&display=swap">
 <link rel="preconnect" href="https://cdn.jsdelivr.net" crossorigin>
 <link rel="stylesheet" href="https://cdn.jsdelivr.net/npm/pretendard@1.3.9/dist/web/variable/pretendardvariable-dynamic-subset.min.css">
-<link rel="stylesheet" href="../assets/css/style.css?v=1792687189">
+<link rel="stylesheet" href="../assets/css/style.css?v=1792687630">
 <script>document.documentElement.classList.add("js")</script>
 <meta name="dokkaebi-api" content="https://script.google.com/macros/s/AKfycbw1ukn5kiuJ3rC1IUlTakt7768htxE08COYk8GMvpOcfUWcSVZKUTsxLftt-JXtx4I/exec">
 <script type="application/ld+json">{"@context": "https://schema.org", "@type": "BreadcrumbList", "itemListElement": [{"@type": "ListItem", "position": 1, "name": "홈", "item": "https://dokkaebi1.github.io/"}, {"@type": "ListItem", "position": 2, "name": "프로그램", "item": "https://dokkaebi1.github.io/#services"}, {"@type": "ListItem", "position": 3, "name": "협업 제안", "item": "https://dokkaebi1.github.io/programs/collab.html"}]}</script>
@@ -95,7 +95,7 @@
 <a class="fab" href="#inquiry" data-open="inquiry-dialog">문의하기</a>
 <dialog id="video-dialog" aria-label="영상 보기"><button class="dlg-close" aria-label="닫기">×</button><video controls playsinline preload="none"></video><p></p></dialog>
 <dialog id="lightbox" aria-label="사진 크게 보기"><button class="dlg-close" aria-label="닫기">×</button><button class="lb-nav lb-prev" aria-label="이전 사진">‹</button><figure><img alt=""><figcaption></figcaption></figure><button class="lb-nav lb-next" aria-label="다음 사진">›</button></dialog>
-<script src="../assets/js/main.js?v=1792687189" defer></script>
-<script src="../assets/js/forms.js?v=1792687189" defer></script>
+<script src="../assets/js/main.js?v=1792687630" defer></script>
+<script src="../assets/js/forms.js?v=1792687630" defer></script>
 </body>
 </html>

diff --git a/works/neulgeun-yeonga.html b/works/neulgeun-yeonga.html
@@ -28,7 +28,7 @@
 <link rel="stylesheet" href="https://fonts.googleapis.com/css2?family=Hahmlet:wght@400..900&display=swap">
 <link rel="preconnect" href="https://cdn.jsdelivr.net" crossorigin>
 <link rel="stylesheet" href="https://cdn.jsdelivr.net/npm/pretendard@1.3.9/dist/web/variable/pretendardvariable-dynamic-subset.min.css">
-<link rel="stylesheet" href="../assets/css/style.css?v=1792687189">
+<link rel="stylesheet" href="../assets/css/style.css?v=1792687630">
 <script>document.documentElement.classList.add("js")</script>
 <meta name="dokkaebi-api" content="https://script.google.com/macros/s/AKfycbw1ukn5kiuJ3rC1IUlTakt7768htxE08COYk8GMvpOcfUWcSVZKUTsxLftt-JXtx4I/exec">
 <script type="application/ld+json">{"@context": "https://schema.org", "@type": "BreadcrumbList", "itemListElement": [{"@type": "ListItem", "position": 1, "name": "홈", "item": "https://dokkaebi1.github.io/"}, {"@type": "ListItem", "position": 2, "name": "작품", "item": "https://dokkaebi1.github.io/#works"}, {"@type": "ListItem", "position": 3, "name": "늙은 연가", "item": "https://dokkaebi1.github.io/works/neulgeun-yeonga.html"}]}</script>
@@ -129,7 +129,7 @@
 <a class="fab" href="#inquiry" data-open="inquiry-dialog">문의하기</a>
 <dialog id="video-dialog" aria-label="영상 보기"><button class="dlg-close" aria-label="닫기">×</button><video controls playsinline preload="none"></video><p></p></dialog>
 <dialog id="lightbox" aria-label="사진 크게 보기"><button class="dlg-close" aria-label="닫기">×</button><button class="lb-nav lb-prev" aria-label="이전 사진">‹</button><figure><img alt=""><figcaption></figcaption></figure><button class="lb-nav lb-next" aria-label="다음 사진">›</button></dialog>
-<script src="../assets/js/main.js?v=1792687189" defer></script>
-<script src="../assets/js/forms.js?v=1792687189" defer></script>
+<script src="../assets/js/main.js?v=1792687630" defer></script>
+<script src="../assets/js/forms.js?v=1792687630" defer></script>
 </body>
 </html>

diff --git a/works/uam189.html b/works/uam189.html
@@ -28,7 +28,7 @@
 <link rel="stylesheet" href="https://fonts.googleapis.com/css2?family=Hahmlet:wght@400..900&display=swap">
 <link rel="preconnect" href="https://cdn.jsdelivr.net" crossorigin>
 <link rel="stylesheet" href="https://cdn.jsdelivr.net/npm/pretendard@1.3.9/dist/web/variable/pretendardvariable-dynamic-subset.min.css">
-<link rel="stylesheet" href="../assets/css/style.css?v=1792687189">
+<link rel="stylesheet" href="../assets/css/style.css?v=1792687630">
 <script>document.documentElement.classList.add("js")</script>
 <meta name="dokkaebi-api" content="https://script.google.com/macros/s/AKfycbw1ukn5kiuJ3rC1IUlTakt7768htxE08COYk8GMvpOcfUWcSVZKUTsxLftt-JXtx4I/exec">
 <script type="application/ld+json">{"@context": "https://schema.org", "@type": "BreadcrumbList", "itemListElement": [{"@type": "ListItem", "position": 1, "name": "홈", "item": "https://dokkaebi1.github.io/"}, {"@type": "ListItem", "position": 2, "name": "작품", "item": "https://dokkaebi1.github.io/#works"}, {"@type": "ListItem", "position": 3, "name": "우암동 189번지", "item": "https://dokkaebi1.github.io/works/uam189.html"}]}</script>
@@ -135,7 +135,7 @@
 <a class="fab" href="#inquiry" data-open="inquiry-dialog">문의하기</a>
 <dialog id="video-dialog" aria-label="영상 보기"><button class="dlg-close" aria-label="닫기">×</button><video controls playsinline preload="none"></video><p></p></dialog>
 <dialog id="lightbox" aria-label="사진 크게 보기"><button class="dlg-close" aria-label="닫기">×</button><button class="lb-nav lb-prev" aria-label="이전 사진">‹</button><figure><img alt=""><figcaption></figcaption></figure><button class="lb-nav lb-next" aria-label="다음 사진">›</button></dialog>
-<script src="../assets/js/main.js?v=1792687189" defer></script>
-<script src="../assets/js/forms.js?v=1792687189" defer></script>
+<script src="../assets/js/main.js?v=1792687630" defer></script>
+<script src="../assets/js/forms.js?v=1792687630" defer></script>
 </body>
 </html>
